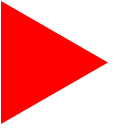
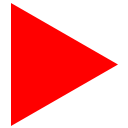
ch

Changed region(s): [[0.0, 0.0, 0.9375, 1.0]]

diff --git a/js/main.js b/js/main.js
@@ -25,6 +25,10 @@ function toggleRotate() {
     btnRotateCamera.style.removeProperty( 'opacity');
   }
 }
+function onCameraRotate() {
+  controls.autoRotate = true;
+  btnRotateCamera.style.opacity = 1.0;
+}
 function offCameraRotate() {
   controls.autoRotate = false;
   //убираем свойство 'opacity' кнопки, чтобы востановить возможность изменения прозрачности при наведене мыши
@@ -39,6 +43,7 @@ function stopCameraAnim() {
 }
 function startCameraAnim(keyFrTrack) {
   if(!CameraKeyTrck.playOn) {
+    offCameraRotate();
     CameraKeyTrck = keyFrTrack;
     CameraKeyTrck.playOn = true;
     return true;
@@ -59,7 +64,7 @@ function showGeneralInfo() {
   if( startCameraAnim( CameraKeyTrckAllPos ) ) {
     //показ красного треуголька - ознаачет, что воспроизводится анимация
     let coord = btnShow1LevellInfo.getBoundingClientRect();
-    plyRed.style.left = ( coord.x + coord.width / 2 ) + "px";
+    plyRed.style.left = ( coord.x + 1 * coord.width / 2 ) + "px";
     plyRed.style.top = ( coord.y + 0 * coord.height / 2 ) + "px";
     plyRed.style.display = "block";
 
@@ -72,7 +77,7 @@ function showDetailInfo() {
   if( startCameraAnim( CameraKeyTrck1 ) ) {
     //показ красного треуголька - ознаачет, что воспроизводится анимация
     let coord = btnShow2LevellInfo.getBoundingClientRect();
-    plyRed.style.left = ( coord.x + coord.width / 2 ) + "px";
+    plyRed.style.left = ( coord.x + 1 * coord.width / 2 ) + "px";
     plyRed.style.top = ( coord.y + 0 * coord.height / 2 ) + "px";
     plyRed.style.display = "block";
 

diff --git a/js/animFunctions.js b/js/animFunctions.js
@@ -1,15 +1,3 @@
-let cameraPos = function (_camera, _controls, cameraKeyTrck ) {
-  let vectorCam = new THREE.Vector3( 0, 0, 1 );
-  let axisY = new THREE.Vector3( 0, 1, 0 );  //вектор направление вверх - ось Y
-  let axisX = new THREE.Vector3( 1, 0, 0 );
-  vectorCam.applyAxisAngle( axisX, THREE.Math.degToRad( cameraKeyTrck.angelPlaneXZ ) ).normalize();
-  vectorCam.applyAxisAngle( axisY, THREE.Math.degToRad( cameraKeyTrck.angelOz ) ).normalize();
-  _camera.position.addVectors( cameraKeyTrck.camLookAt, vectorCam.multiplyScalar( cameraKeyTrck.distance ) );
-  _controls.target.x = cameraKeyTrck.camLookAt.x;
-  _controls.target.y = cameraKeyTrck.camLookAt.y;
-  _controls.target.z = cameraKeyTrck.camLookAt.z;
-  _controls.autoRotateSpeed = cameraKeyTrck.autoRotSpeed;
-}
 let globalCameraPos = function (cameraPosSetup ) {
   let vectorCam = new THREE.Vector3( 0, 0, 1 );
   let axisY = new THREE.Vector3( 0, 1, 0 );  //вектор направление вверх - ось Y
@@ -146,6 +134,7 @@ function animateCamera() {
       currentKey = 0;
       localTime = 0;
       if(keyTrack.divID) $(keyTrack.divID).hide().empty();
+      plyRed.style.display = "none";
       return;
     }
     if(keyTrack.playOn) {
@@ -235,6 +224,7 @@ function animateCamera() {
           console.log('%c...anim complete', 'color: red;');
           localTime = 0;
           if(keyTrack.divID) $(keyTrack.divID).hide().empty();
+          plyRed.style.display = "none";
         }
       }
     }

diff --git a/js/HolodUstModes.js b/js/HolodUstModes.js
@@ -32,8 +32,8 @@ function holodUst1Mode_1() {
     rotateGroup3D(zaslonka1.children[0].children, -90, 'oZ');
     rotateGroup3D(zaslonka2.children[0].children, -90, 'oZ');
     //открытие заслонок рекуператора
-    rotateGroup3D(rekuperatorZaslon1.children[0].children, 0, 'oX');
-    rotateGroup3D(rekuperatorZaslon2.children[0].children, 0, 'oX');
+    // rotateGroup3D(rekuperatorZaslon1.children[0].children, 0, 'oX');
+    // rotateGroup3D(rekuperatorZaslon2.children[0].children, 0, 'oX');
     rotateGroup3D(rekuperatorZaslon3.children[0].children, 0, 'oX');
   }
   else {
@@ -46,8 +46,8 @@ function holodUst1Mode_1() {
     rotateGroup3D(diffuzorLopasti.children[0].children, 0, 'oX');
     rotateGroup3D(zaslonka1.children[0].children, 0, 'oZ');
     rotateGroup3D(zaslonka2.children[0].children, 0, 'oZ');
-    rotateGroup3D(rekuperatorZaslon1.children[0].children, -90, 'oX');
-    rotateGroup3D(rekuperatorZaslon2.children[0].children, -90, 'oX');
+    // rotateGroup3D(rekuperatorZaslon1.children[0].children, -90, 'oX');
+    // rotateGroup3D(rekuperatorZaslon2.children[0].children, -90, 'oX');
     rotateGroup3D(rekuperatorZaslon3.children[0].children, -90, 'oX');
   }
 }

diff --git a/css/buttons.css b/css/buttons.css
@@ -12,11 +12,26 @@
   /* color: white; */
   /* font-family: monospace; */
   /* padding: 1em; */
-  /* border-radius: 0.3em;
-  border: 1px solid #111111; */
+  /* border-radius: 0.3em;*/
+  /* border: 1px solid #111111; */
   opacity: 0.3;
 }
 .buttonA:hover {
+  opacity: 0.6;
+}
+.buttonB {
+  background-repeat     : no-repeat;
+  background-size       : cover;
+  background-position-x : 50%;
+  background-position-y : 50%;
+  margin-left: 0.2vmax;
+  margin-right: 0.2vmax;
+  cursor: pointer;
+  height: 3.0vmax;
+  width: 3.0vmax;
+  opacity: 0.3;
+}
+.buttonB:hover {
   opacity: 0.6;
 }
 #cameraControl {
@@ -90,17 +105,19 @@
 }
 #btnTemp {
   background-color: #ff0000;
-  /* display: none; */
+  display: none;
 }
 #plyRed {
+  position: absolute;
+  background-image: url(../images/playRed.png);
   background-repeat     : no-repeat;
   background-size       : cover;
   background-position-x : 50%;
   background-position-y : 50%;
+  /* margin-left: 0.5vmax;
+  margin-right: 0.5vmax; */
   height: 2.0vmax;
   width: 2.0vmax;
-  background-image: url(../images/playRed.png);
-  position: absolute;
   top: 75px;
   left: 75px;
   opacity: 0.8;

diff --git a/index.html b/index.html
@@ -42,9 +42,9 @@
     </div>
 
     <div class = "cntrlPanel" id="cameraControl">
-      <div class = "buttonA" title="Сбросить камеру" id="btnResetCemera"></div>
-      <div class = "buttonA" title="Вращать камеру" id="btnRotateCamera"></div>
-      <div class = "buttonA" title="Во весь экран" id="btnFullscrn"></div>
+      <div class = "buttonB" title="Сбросить камеру" id="btnResetCemera"></div>
+      <div class = "buttonB" title="Вращать камеру" id="btnRotateCamera"></div>
+      <div class = "buttonB" title="Во весь экран" id="btnFullscrn"></div>
     </div>
 
     <div id = "plyRed"></div>

diff --git a/js/finalOutput.js b/js/finalOutput.js
@@ -49,7 +49,7 @@ function onDocumentMouseMove( event ) {
 window.onload = function () {
   matHolodSetup();
   startCameraAnim(CameraKeyTrckDefPos);
-  controls.autoRotate = true;
+  onCameraRotate();
   $("#controlPanel").css("display", "flex")
     .hide()
     .delay(2000)
